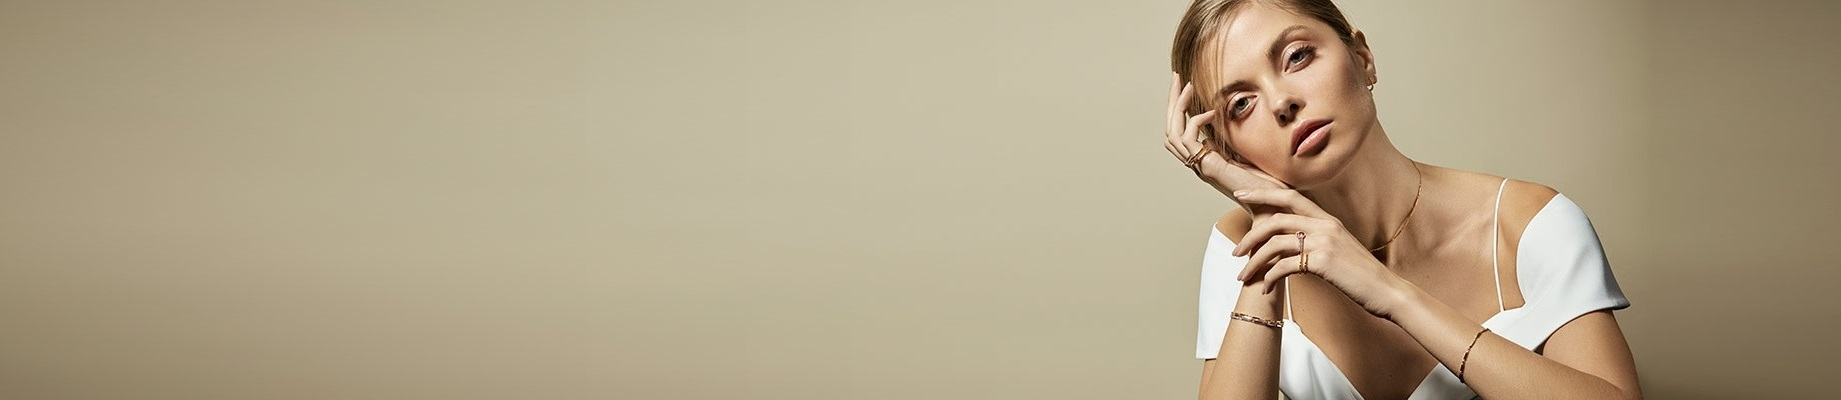
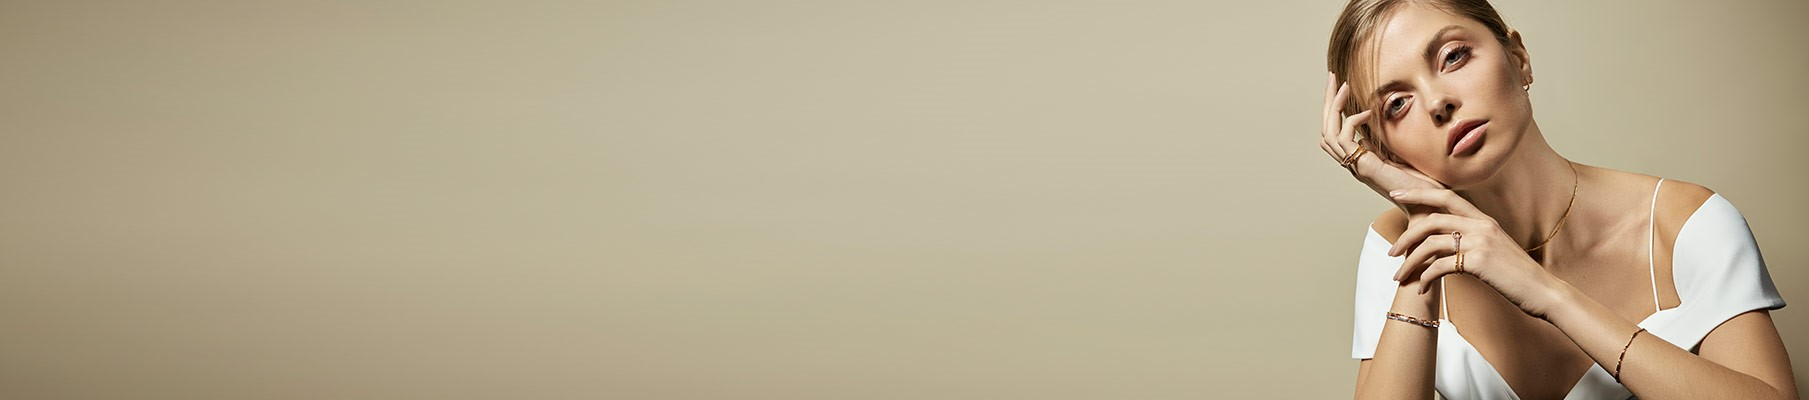
Prototype colors and fonts for form(Unfinished)

diff --git a/app/assets/stylesheets/B_registration.scss b/app/assets/stylesheets/B_registration.scss
@@ -2,7 +2,7 @@
   height: 100%;
   justify-content: center;
   align-content: center;
-  background-color: #191A0C;
+  background-color: $color-black;
 }
 .B-registration-container{
   background-image: asset-url('video-cover-d.jpg'); 
@@ -17,14 +17,18 @@
   text-align: left;
   width: 35%;
   height: 100%;
-  background-color: white;
-  font-family: 'Lato', sans-serif !important;
+  background-color: $color-white;
   font-size: 1.2vw;
   font-weight: 550;
 }
 .B-form-container{
-  margin: 6% 8%;
+  margin: 5% 8%;
   height: 90%;
+}
+.B-form-container a{
+  font-family: $font-normal;
+  font-size: 0.8vw;
+  font-style: italic;
 }
 .B-registration-form-fields{
   display: grid;
@@ -36,12 +40,12 @@
   border: none;
   outline: none;
   background-color: transparent;
-  border-bottom: 0.1vw solid lightgray;
+  border-bottom: 0.1vw solid $color-gray;
 }
 .B-text-input:focus{
   animation-name: B-input-focus;
   animation-duration: 0.8s;
-  border-bottom: 0.15vw solid #B16F35;
+  border-bottom: 0.15vw solid $color-red;
 }
 
 @keyframes B-input-focus{
@@ -50,10 +54,10 @@
   }
   to{
     width: 80%;
-    border-bottom: 0.15vw solid #B16F35;
+    border-bottom: 0.15vw solid $color-red;
   }
 }
-#passwordField{
+#user_password{
   max-width: 74%;
 }
 .B-eye-container{
@@ -61,33 +65,32 @@
   display: inline-block;
 }
 .B-form-button-container{
+  font-family: 'Lato', sans-serif;
   width: 70%;
   height: 30%;
 }
 .B-form-button{
   width: 90%;
   height: 100%;
-  background-color: #00C9AC;
+  background-color: $color-red;
   color: white;
   border:none;
   outline: none;
   border-radius: 1%;
-  box-shadow: 3px 3px #999;
 }
 .B-form-button:hover{
-  background-color: #00874B;
+  background-color: $color-red;
 }
-.B-form-button:active {
-  background-color: #005E4E;
-  box-shadow: 1px 1px #666;
-  transform: translate(2px, 2px);
-}
-
 .B-back-button{
-  background-color: lightgray !important;
-  color: gray !important;
+  font-size: inherit !important;
+  font-style: inherit !important; // Neglect line 30
+  background-color: $color-gray !important;
+  color: $color-light-black !important;
   outline: none !important;
   text-align: center;
+}
+.B-back-button:hover{
+  background-color: $color-dark-gray !important;
 }
 #B_messenger{
   max-height: 10%;

diff --git a/app/assets/stylesheets/B_main.scss b/app/assets/stylesheets/B_main.scss
@@ -84,19 +84,24 @@ a:link, a:visited {
 
 // Fonts
 p{
-  font-family: 'Raleway', sans-serif !important;
-  font-weight: 600;
+  font-family: $font-normal;
+  font-weight: 500;
   font-size: 1.2vw;
   padding: 2%;
 }
+label{
+  font-family: $font-normal;
+  font-style: italic;
+  font-size: 1vw;
+}
 h3{
-  font-family: 'Alex Brush', cursive !important;
+  font-family: $font-intense;
   margin: 0 auto;
   font-size: 3vw;
   font-weight: bold;
 }
 h4{
-  font-family: 'Lato', sans-serif !important;
+  font-family: $font-light-intense;
   margin: 3% auto;
   color: #999;
   font-size: 1.2vw;
@@ -135,7 +140,7 @@ h4{
 .B-collections-description{
   position: absolute;
   overflow: hidden;
-  color: #2F4858;
+  color: $color-black;
   padding: 2%;
   width: 70%;
   top: 40%;

diff --git a/app/assets/stylesheets/B_global_variables.scss b/app/assets/stylesheets/B_global_variables.scss
@@ -1,0 +1,19 @@
+// Color Palette
+$color-white: #FFFFFF; // Background
+$color-light-pink: #F1E9E6; // Hey look at this feminine stuff
+$color-red: #D01345; // LOOK AT THIS NOW!
+//Buttons
+$color-black: #000000; // For normal butons (Shop now, Check this out)
+$color-green: #00AA5B; // Please buy this buttons
+$color-dark-green: #009973; // Please buy this buttons:hover
+$color-gray: #EEEEEE; // Cancel buttons
+$color-dark-gray: #DDDDDD; // Cancel buttons :hover
+
+//Fonts Colors
+$color-light-black: #2D2D2D;
+
+
+// Fonts
+$font-intense: 'Alex Brush', cursive; // For Headers and titles
+$font-light-intense: 'Lato', sans-serif;  // Titles but not really
+$font-normal: 'Raleway', sans-serif; // For pretty much everything else

diff --git a/app/assets/stylesheets/B_email_reply.scss b/app/assets/stylesheets/B_email_reply.scss
@@ -1,17 +1,17 @@
 // This will only work if B_registration is imported!
 .B-email-reply-form{
-  background-image: asset-url('hero-d.jpg'); 
+  background-image: asset-url('video-background-d.jpg'); 
   background-size: cover;
   background-repeat: no-repeat;
-  background-position: center; 
-  padding: 3%;
-  padding-left: 5%;
+  background-position: right; 
+  padding: 5%;
 }
 .B-email-form-container{
   box-sizing: border-box;
-  background-color: rgba($color: #2F4858, $alpha: 0.6);
+  background-color: rgba($color: $color-white, $alpha: 1);
   width: 50%;
-  padding: 2%;
+  padding: 3%;
+  margin: 0 auto;
   text-align: left;
 }
 .B-email-form-container .B-text-input{

diff --git a/app/assets/stylesheets/application.scss b/app/assets/stylesheets/application.scss
@@ -14,6 +14,7 @@
  @import "bootstrap";
  @import "font-awesome";
 //  Binh
+ @import "B_global_variables";
  @import "B_main";
  @import "B_registration";
  @import "B_login";
@@ -23,7 +24,6 @@
  @import url('https://fonts.googleapis.com/css?family=Lato|Raleway|Alex+Brush');
 // Phuc 
  @import "P_header-about-footer";
- @import "P_filter";
  @import url('https://fonts.googleapis.com/css?family=Contrail+One');
  @import url('https://fonts.googleapis.com/css?family=Yantramanav');
 // Hung

diff --git a/app/assets/stylesheets/B_login.scss b/app/assets/stylesheets/B_login.scss
@@ -12,9 +12,6 @@
   width: 35%;
   height: 100%;
   background-color: white;
-  font-family: 'Lato', sans-serif !important;
-  font-size: 1.2vw;
-  font-weight: 550;
 }
 .B-login-form-fields{
   display: grid;
